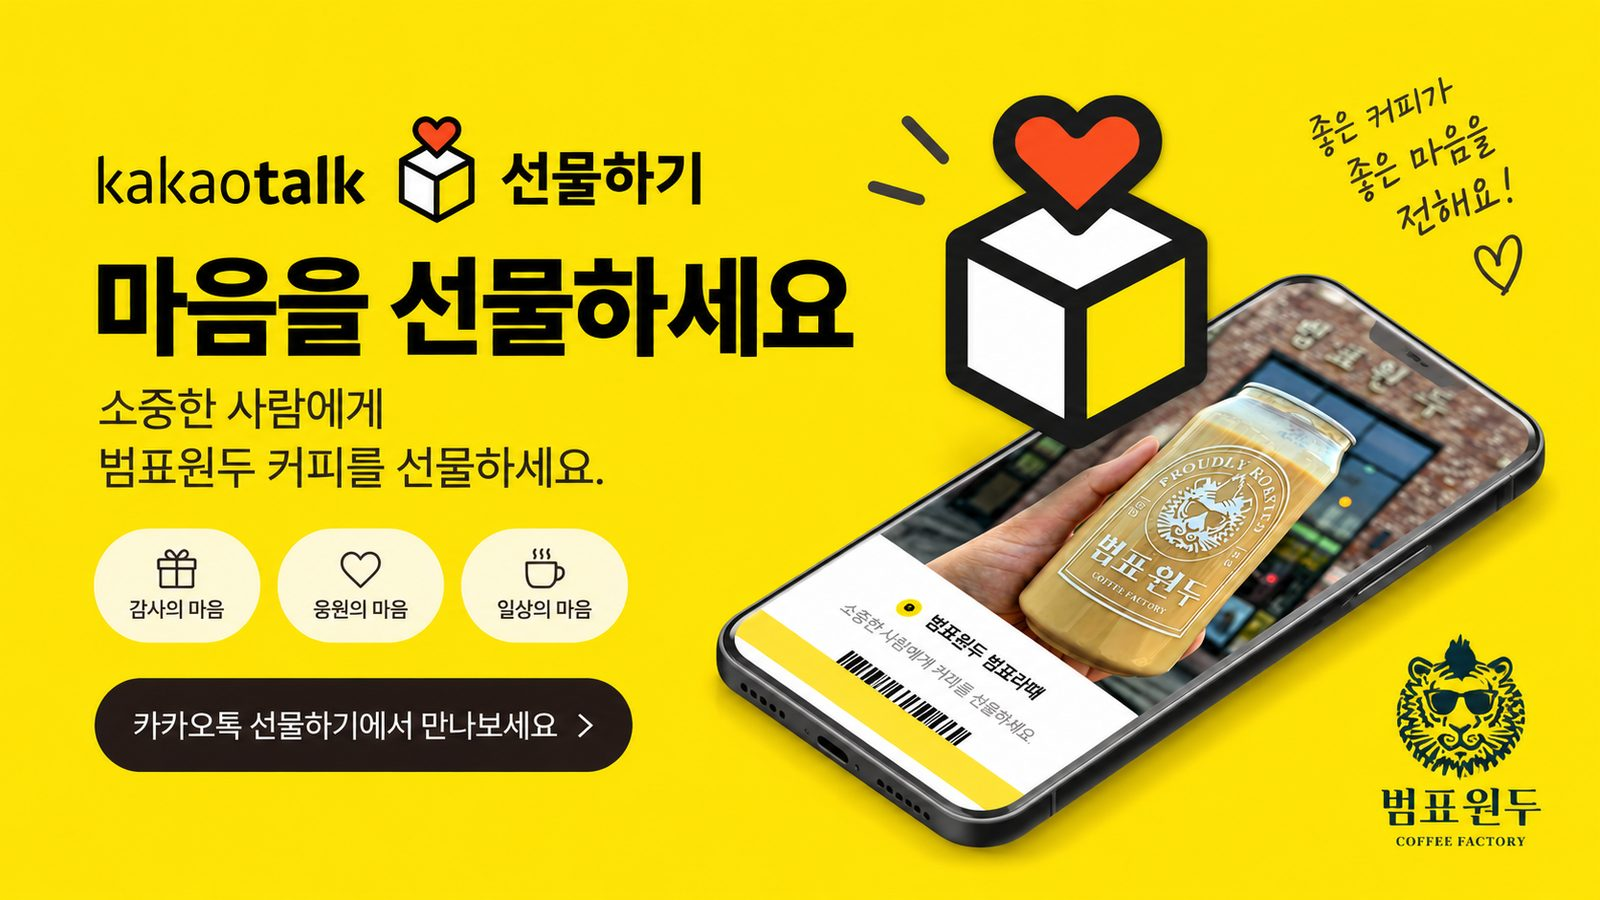
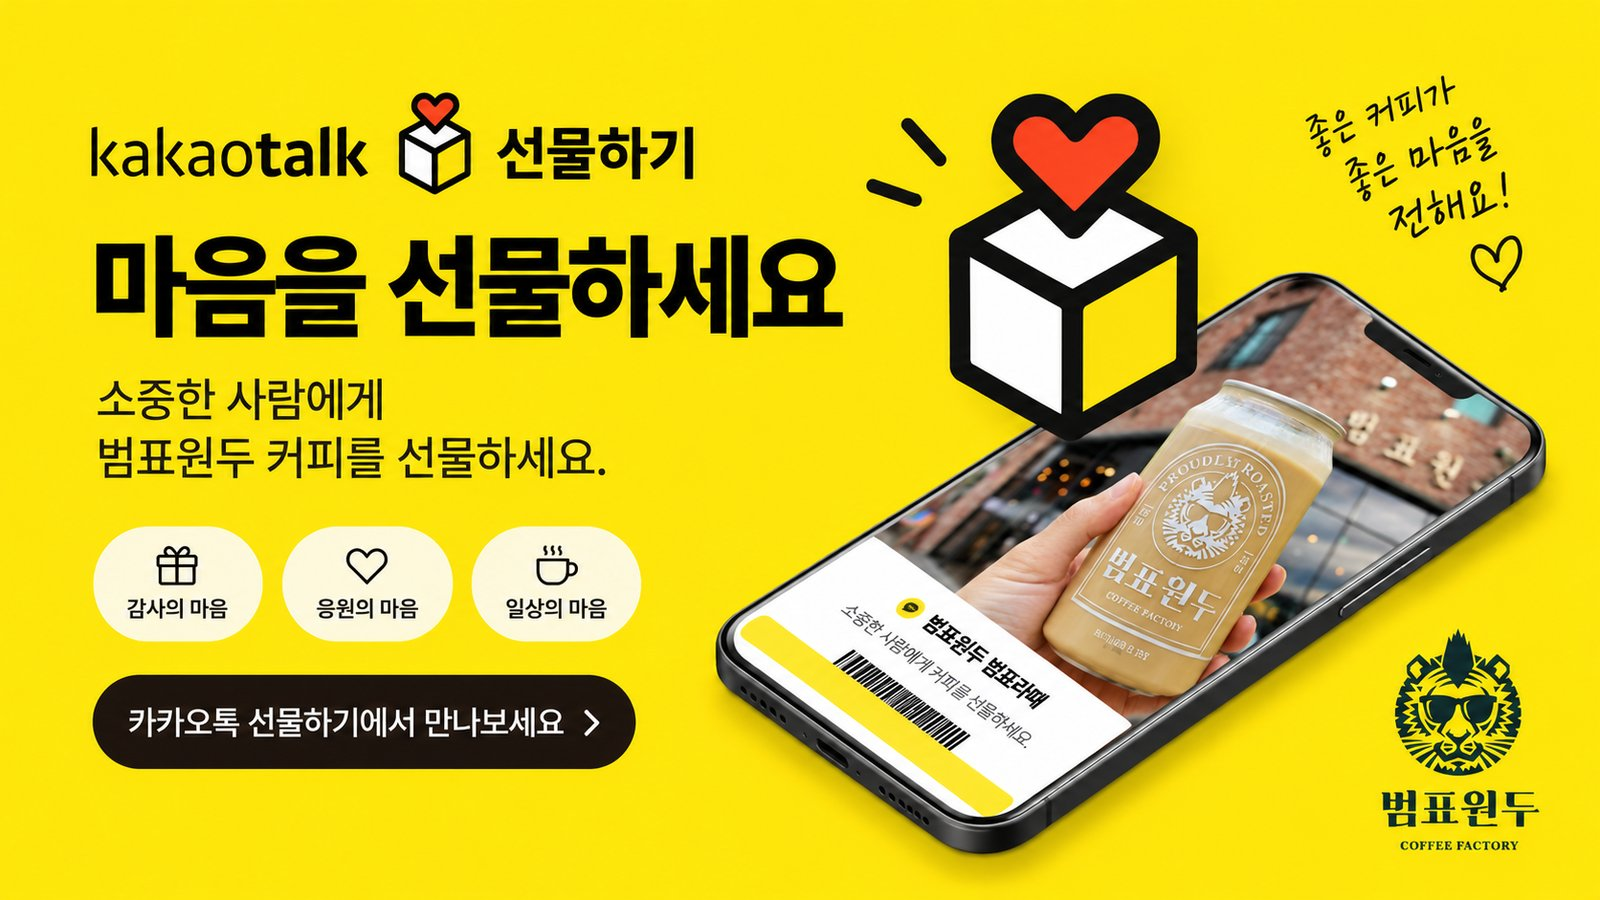
카카오선물하기·올리브영 구매 링크 추가 + 카카오 표지 이미지 교체
- 카카오선물하기·올리브영 브랜드관 실제 구매 링크를 LINKS 버튼으로 연결
- 카카오선물하기 글 표지를 가로형 이미지로 교체

diff --git a/05_범표노트/src/posts/2026-09-13-olive-young-belier-entry.md b/05_범표노트/src/posts/2026-09-13-olive-young-belier-entry.md
@@ -6,6 +6,11 @@ public: true
 description: "올리브영이 새로 선보인 웰니스 특화 매장 올리브베러 3호점 오픈에 맞춰 입점 제안을 받은 이야기입니다."
 image: "/images/2026-09-13-olive-young-belier-entry.jpg"
 tags: ["올리브영", "올리브베러", "입점"]
+links:
+  - label: "올리브영 브랜드관 보기"
+    url: "https://www.oliveyoung.co.kr/store/display/getBrandShopDetail.do?onlBrndCd=A021242&t_page=%ED%86%B5%ED%95%A9%EA%B2%80%EC%83%89%EA%B2%B0%EA%B3%BC%ED%8E%98%EC%9D%B4%EC%A7%80&t_click=%EB%B8%8C%EB%9E%9C%EB%93%9C%EA%B4%80%EB%B0%94%EB%A1%9C%EA%B0%80%EA%B8%B0&t_brand_name=%EB%B2%94%ED%91%9C%EC%9B%90%EB%91%90"
+  - label: "인스타그램 @bumpyobeans"
+    url: "https://www.instagram.com/bumpyobeans/"
 ---
 
 올리브베러는 올리브영이 2026년 1월 새롭게 선보인 웰니스 특화 매장입니다. 기존 올리브영이 뷰티·헬스 위주였다면, 올리브베러는 "잘 먹기·채우기·움직이기·가꾸기·쉬기·케어하기"라는 여섯 가지 영역으로 일상을 나누어 상품을 큐레이팅하는 콘셉트예요. 프로틴 간식이나 건강기능식품, 차, 아로마, 수면 관련 제품처럼 몸과 마음을 돌보는 상품들을 다루고, 올리브영 앱 안에서 별도 서비스처럼 이용할 수 있게 되어 있습니다. 1호점은 경복궁과 광화문광장 근처인 광화문에 자리 잡았고, 이후 강남역점 등으로 매장을 넓혀가고 있어요.

diff --git a/05_범표노트/src/posts/2026-09-13-kakao-gift-entry.md b/05_범표노트/src/posts/2026-09-13-kakao-gift-entry.md
@@ -6,6 +6,11 @@ public: true
 description: "2022년 호랑이의 해, 카카오톡딜 제안으로 시작해 카카오선물하기 입점까지 이어진 이야기입니다."
 image: "/images/2026-09-13-kakao-gift-entry.jpg"
 tags: ["카카오선물하기", "입점"]
+links:
+  - label: "카카오선물하기에서 보기"
+    url: "https://gift.kakao.com/brand/12320"
+  - label: "인스타그램 @bumpyobeans"
+    url: "https://www.instagram.com/bumpyobeans/"
 ---
 
 2022년, 호랑이의 해였습니다. "호랑이의 해, 범표원두와 함께하는 톡딜!!" 이라는 제안이 들어왔어요. 카카오톡딜에 입점해보지 않겠냐는 연락이었는데, 저희로서는 큰 플랫폼과 처음 함께해보는 기회라 설레면서도 긴장됐던 기억이 납니다.
